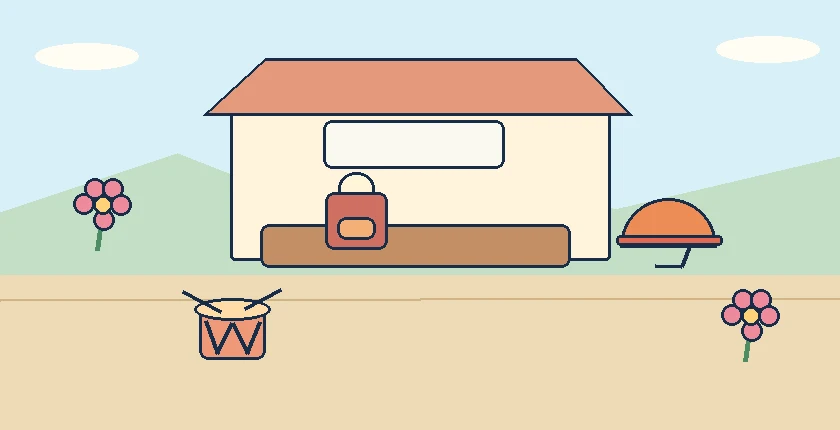
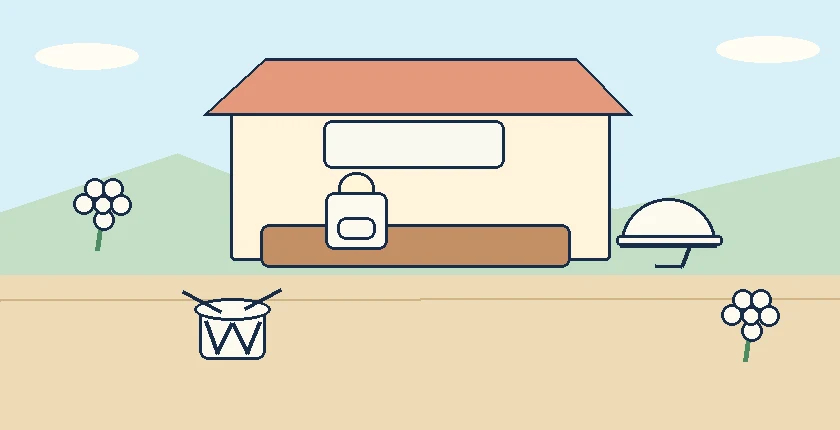
Polish Movers picture interaction and document Cambridge formats

diff --git a/components/games/StartersRound.tsx b/components/games/StartersRound.tsx
@@ -21,6 +21,7 @@ export default function StartersRound({ items, index, turn, answers, assets, set
   const [target, setTarget] = useState(value.split(":")[0]);
   const [card, setCard] = useState(paint ? value.split(":")[1] ?? "" : "");
   const [word, setWord] = useState("");
+  const [zoom, setZoom] = useState<string>();
   const inputId = useId();
   const palette = ["blue", "red", "green", "yellow", "orange", "pink", "purple", "brown"] as const;
   const section = items.flatMap((row, i) => row.practice?.starters?.part === part && row.practice.starters.paper === paper ? [i] : []);
@@ -48,10 +49,15 @@ export default function StartersRound({ items, index, turn, answers, assets, set
     </details>}
     {speaking && <p className="starter-guide" lang="vi">Làm phần này cùng giáo viên. Em có thể trả lời trực tiếp bằng lời.</p>}
     {visuals && <div className="mover-scenes">
-      {visuals.map((src, i) => <figure key={src}>
-        <LessonMedia media={{ image: src }} assets={assets} label={`Fair scene ${i + 1}`}/>
-        <figcaption>{visuals.length === 2 ? `Picture ${"AB"[i]}` : `Picture ${i + 1}`}</figcaption>
-      </figure>)}
+      {visuals.map((src, i) => {
+        const caption = visuals.length === 2 ? `Picture ${"AB"[i]}` : `Picture ${i + 1}`;
+        return <figure key={src} data-enlarged={zoom === src || undefined}>
+          <button type="button" aria-label={`Enlarge ${caption}`} aria-pressed={zoom === src} onClick={() => setZoom(zoom === src ? undefined : src)}>
+            <LessonMedia media={{ image: src }} assets={assets} label={`Fair scene ${i + 1}`}/>
+          </button>
+          <figcaption>{caption}</figcaption>
+        </figure>;
+      })}
     </div>}
     {groups?.map((group, i) => <fieldset key={i} className="mover-odd">
       <legend>Set {i + 1}</legend>
@@ -79,10 +85,14 @@ export default function StartersRound({ items, index, turn, answers, assets, set
       {targets.map(point => {
         const paintValue = (value.startsWith(point.id + ":") ? value : previous.find(answer => answer.startsWith(point.id + ":")))?.split(":")[1];
         const taken = match ? previous.includes(point.id) : paint && previous.some(answer => answer.startsWith(point.id + ":"));
-        return <button className={movers && colouring ? "starter-pin mover-colour-pin" : "starter-pin"} type="button" key={point.id}
+        const fill = paintValue ? colourPalette[paintValue] : undefined;
+        const mask = point.mask && assets[point.mask];
+        return <div key={point.id}>
+          {mask && fill && <span className="mover-colour-fill" aria-hidden="true" style={{ backgroundColor: fill, maskImage: `url(${mask})` }}/>}
+          <button className={mask ? "starter-pin mover-colour-pin" : "starter-pin"} type="button"
           aria-label={`${colouring ? (movers ? "Object" : "Ball") : "Person"} ${point.id}${paintValue ? " " + paintValue : ""}`}
           aria-pressed={target === point.id} style={{ left: point.x + "%", top: point.y + "%",
-            backgroundColor: paintValue ? colourPalette[paintValue as keyof typeof colourPalette] : undefined }}
+            backgroundColor: mask ? undefined : fill }}
           disabled={taken || sign} onClick={() => {
             setTarget(point.id);
             if (match) pick(point.id);
@@ -91,7 +101,8 @@ export default function StartersRound({ items, index, turn, answers, assets, set
               setAnswers(old => ({ ...old, [index]: [...(old[index] ?? []).filter(entry => entry.split(":")[1] !== card), point.id + ":" + card] }));
               setCard("");
             }
-          }}>{point.id}{speaking && answers[index]?.some(entry => entry.startsWith(point.id + ":")) && <span aria-hidden="true"> ✓</span>}</button>;
+          }}>{point.id}{speaking && answers[index]?.some(entry => entry.startsWith(point.id + ":")) && <span aria-hidden="true"> ✓</span>}</button>
+        </div>;
       })}
     </div> : <div className={!movers && paper === "reading" && [1, 3].includes(part) ? "starter-picture starter-object" : "starter-picture"}><LessonMedia media={{ image: scene }} assets={assets}
       label={paper === "reading" && part === 5 ? "Story picture" : "Question picture"}/></div>)}

diff --git a/tests/browser/starters-hosted.spec.ts b/tests/browser/starters-hosted.spec.ts
@@ -12,8 +12,11 @@ for (const paper of ["listening", "reading", "speaking"]) {
     await page.getByLabel("Mật khẩu").fill(process.env.E2E_TEACHER_PASSWORD!);
     await page.getByRole("button", { name: "Đăng nhập", exact: true }).click();
     await expect(page.getByRole("heading", { name: "Hoạt động của tôi" })).toBeVisible();
-    await page.goto(`/samples/cambridge-starters/${paper}`);
+    await page.goto(`/samples/cambridge-starters/${paper}`, { waitUntil: "networkidle" });
+    await expect(page.getByRole("button", { name: "Bắt đầu", exact: true })).toBeEnabled();
     await page.getByRole("button", { name: "Lưu vào thư viện giáo viên" }).click();
+    await expect(page.getByText("Đã lưu thay đổi.", { exact: true })).toBeVisible({ timeout: 20000 });
+    await page.waitForLoadState("networkidle");
     if (paper === "speaking") {
       await page.getByText("Hướng dẫn Speaking dành cho giáo viên").click();
       await expect(page.getByText(/Put the apple beside the boy/)).toBeVisible();
@@ -21,7 +24,7 @@ for (const paper of ["listening", "reading", "speaking"]) {
     await page.getByLabel(/Cho học sinh xem câu sai/).check();
     await page.getByRole("button", { name: "Tạo link giao bài" }).click();
     const field = page.getByLabel("Link chia sẻ");
-    await expect(field).toBeVisible();
+    await expect(field).toBeVisible({ timeout: 20000 });
     const url = await field.inputValue();
     const assignmentUrl = page.url();
     const student = await browser.newPage();

diff --git a/app/starters.css b/app/starters.css
@@ -88,10 +88,14 @@
 .mover-matches img { width: 100%; display: block; border-radius: .45rem; }
 .mover-sign { position: absolute; left: 38.5%; top: 25.5%; width: 22%; height: 15%; text-align: center; overflow-wrap: anywhere; }
 .mover-sign input { width: 100%; height: 100%; min-height: 2rem; padding: .1rem .2rem; text-align: center; font-size: inherit; }
-.starter-pin.mover-colour-pin { mix-blend-mode: multiply; color: #192d49; }
+.starter-pin.mover-colour-pin { transform: translate(-50%, 8%); min-width: 32px; min-height: 32px; }
+.mover-colour-fill { position: absolute; inset: 0; mask-size: 100% 100%; mask-repeat: no-repeat; pointer-events: none; }
 .starter-choice-letter { display: inline-block; margin-right: .45rem; color: var(--starter-coral); font-weight: 750; }
 .mover-scenes { display: grid; grid-template-columns: repeat(2, minmax(0, 1fr)); gap: .65rem; }
 .mover-scenes figure { display: grid; margin: 0; padding: .35rem; background: var(--starter-aqua); border-radius: .7rem; text-align: center; }
+.mover-scenes figure[data-enlarged] { grid-column: 1 / -1; }
+.mover-scenes button { padding: 0; border: 0; border-radius: .45rem; background: transparent; cursor: zoom-in; }
+.mover-scenes button[aria-pressed="true"] { cursor: zoom-out; }
 .mover-scenes img { display: block; width: 100%; border-radius: .45rem; }
 .mover-scenes figcaption { padding: .3rem; font-weight: 720; }
 .mover-odd { margin: 0; min-width: 0; border: 1px solid #bfdad6; border-radius: .65rem; padding: .5rem; }

diff --git a/tests/browser/movers-hosted.spec.ts b/tests/browser/movers-hosted.spec.ts
@@ -18,9 +18,11 @@ for (const paper of ["listening", "reading", "speaking"]) {
     test.skip(info.project.name !== "desktop" || !process.env.E2E_TEACHER_EMAIL || !process.env.E2E_OTHER_EMAIL, "QuizStudy QA teachers required");
     test.setTimeout(150000);
     await signIn(page);
-    await page.goto(`/samples/cambridge-movers/${paper}`);
+    await page.goto(`/samples/cambridge-movers/${paper}`, { waitUntil: "networkidle" });
+    await expect(button(page, "Bắt đầu")).toBeEnabled();
     await button(page, "Lưu vào thư viện giáo viên").click();
-    await expect(button(page, "Tạo link giao bài")).toBeVisible();
+    await expect(button(page, "Tạo link giao bài")).toBeVisible({ timeout: 20000 });
+    await page.waitForLoadState("networkidle");
     const source = page.url();
     if (paper === "speaking") {
       await page.getByText("Hướng dẫn Speaking dành cho giáo viên").click();
@@ -28,7 +30,7 @@ for (const paper of ["listening", "reading", "speaking"]) {
     }
     await page.getByLabel(/Cho học sinh xem câu sai/).check();
     await button(page, "Tạo link giao bài").click();
-    await expect(page.getByLabel("Link chia sẻ")).toBeVisible();
+    await expect(page.getByLabel("Link chia sẻ")).toBeVisible({ timeout: 20000 });
     const url = await page.getByLabel("Link chia sẻ").inputValue();
     const assignment = page.url();
     const student = await browser.newPage();

diff --git a/tests/browser/movers.spec.ts b/tests/browser/movers.spec.ts
@@ -73,7 +73,14 @@ for (const part of [1, 2, 3, 4]) {
   test(`Movers Speaking Part ${part}`, async ({ page }) => {
     await start(page, "speaking?part=" + part);
     await expect(page.getByText("Gợi ý luyện tập")).toBeVisible();
-    if (part === 1 || part === 2) await expect(page.locator(".mover-scenes figure")).toHaveCount(part === 1 ? 2 : 4);
+    if (part === 1 || part === 2) {
+      await expect(page.locator(".mover-scenes figure")).toHaveCount(part === 1 ? 2 : 4);
+      const zoom = button(page, part === 1 ? "Enlarge Picture A" : "Enlarge Picture 1");
+      await zoom.click();
+      await expect(page.locator("figure[data-enlarged]")).toHaveCount(1);
+      await zoom.click();
+      await expect(page.locator("figure[data-enlarged]")).toHaveCount(0);
+    }
     if (part === 3) {
       for (let group = 1; group <= 4; group++) {
         const cards = page.getByRole("group", { name: "Set " + group }).getByRole("button");
@@ -152,6 +159,7 @@ for (const part of [1, 2, 3, 4, 5]) {
     if (part === 5) {
       await button(page, "Object 1").click();
       await button(page, "purple").click();
+      await expect(page.locator(".mover-colour-fill")).toHaveCount(1);
       for (let i = 0; i < 3; i++) await button(page, "Tiếp theo").click();
       await expect(button(page, "Object 1 purple")).toBeDisabled();
       await page.getByLabel("Word on the sign").fill("open");

diff --git a/lib/games/starters.ts b/lib/games/starters.ts
@@ -23,7 +23,8 @@ export const starterConfig = z.object({
   level: z.literal("movers").optional(),
   scene: starterImage.optional(), passage: z.string().max(1400).optional(), letters: z.string().max(16).optional(),
   cards: z.array(cardSchema).max(8).optional(),
-  targets: z.array(z.object({ id: z.string().max(12), x: z.number().min(0).max(100), y: z.number().min(0).max(100) })).max(8).optional(),
+  targets: z.array(z.object({ id: z.string().max(12), x: z.number().min(0).max(100), y: z.number().min(0).max(100),
+    mask: starterImage.optional() })).max(8).optional(),
   example: z.string().trim().max(350).optional(), guide: z.string().trim().max(1200).optional(),
   teacher: z.string().trim().max(1200).optional(),
   lead: cardSchema.optional(), fields: z.array(z.string().max(60)).length(5).optional(), choices: z.array(z.string().trim().min(1).max(120)).length(3).optional(),

diff --git a/lib/movers-paper.ts b/lib/movers-paper.ts
@@ -11,7 +11,9 @@ const people = points([[12, 75], [26, 81], [43, 73], [60, 81], [76, 75], [89, 82
 const booking = ["Day", "Person in charge", "Number of children", "Room", "What to bring"];
 const objects = cards(["scarf", "map", "camera", "bottle", "torch", "basket", "drum", "helmet"], ["A", "B", "C", "D", "E", "F", "G", "H"]);
 const stall = image("colour-stall");
-const stallTargets = points([[12, 50], [28, 76], [42, 50], [80, 56], [89, 76]]);
+const stallTargets = points([[12, 50], [28, 76], [42, 50], [80, 56], [89, 76]]).map((target, i) => ({
+  ...target, mask: image("colour-" + ["flower-left", "drum", "bag", "helmet", "flower-right"][i]),
+}));
 
 const listening: Question[][] = [
   [["Nora", "2"], ["Jake", "6"], ["Kim", "1"], ["Maya", "5"], ["Louis", "3"]].map(([prompt, answer]) => ({

diff --git a/lib/media.ts b/lib/media.ts
@@ -28,6 +28,7 @@ export function builtInMediaUrls(items: Item[]) {
   return Object.fromEntries(items.flatMap(item => [item.english?.uk, item.english?.us, item.media?.image, item.media?.audio, item.practice?.stimulusImage,
     item.practice?.starters?.scene, item.practice?.starters?.lead?.image, ...(item.practice?.starters?.visuals ?? []),
     ...(item.practice?.starters?.groups?.flat() ?? []), ...(item.practice?.starters?.cards?.map(card => card.image) ?? []),
+    ...(item.practice?.starters?.targets?.map(target => target.mask) ?? []),
     ...(item.optionMedia?.flatMap(media => [media.image, media.audio]) ?? [])]
     .filter((path): path is string => typeof path === "string" && builtIn(path)).map(path => [path, path])));
 }

diff --git a/docs/CAMBRIDGE_SPEC.md b/docs/CAMBRIDGE_SPEC.md
@@ -1,0 +1,41 @@
+# Cambridge Young Learners · Paper-based
+
+Học liệu trên Sân Chơi do dự án biên soạn. Giáo viên mở **Học liệu mẫu** và chọn Starters hoặc Movers để luyện từng Part hay thi thử theo kỹ năng. Bản lưu vào thư viện là hoạt động riêng tư. Giáo viên có thể sửa câu hỏi, đáp án hoặc rubric phù hợp, tạo link giao bài và xuất kết quả. Bài giao giữ snapshot tại thời điểm tạo.
+
+## Phạm vi đã triển khai
+
+| Cấp độ | Listening | Reading & Writing | Speaking |
+|---|---|---|---|
+| Pre A1 Starters | 4 Part · 20 câu · 20 phút | 5 Part · 25 câu · 20 phút | 4 Part · thực hiện với giáo viên · tối đa 5 phút trong app |
+| A1 Movers | 5 Part · 25 câu · 25 phút | 6 Part · 35 câu · 30 phút | 4 Part · thực hiện với giáo viên · tối đa 7 phút trong app |
+
+[Định dạng Paper-based Pre A1 Starters](https://www.cambridgeenglish.org/exams-and-tests/qualifications/young-learners/paper/starters/format/) · [Định dạng Paper-based A1 Movers](https://www.cambridgeenglish.org/exams-and-tests/qualifications/young-learners/paper/movers/format/) · [Handbook for teachers](https://www.cambridgeenglish.org/vn/Images/357180-starters-movers-and-flyers-handbook-for-teachers-2024.pdf) · [Ánh xạ từng Part Starters](STARTERS.md).
+
+## Ánh xạ 15 Part A1 Movers
+
+| Paper / Part | Dạng bài | Học liệu và thao tác trên Sân Chơi |
+|---|---|---|
+| Listening 1 · 5 | Nối tên với người trong tranh | Hội chợ trường học. Nghe đặc điểm của người và chọn ghim dưới hình. |
+| Listening 2 · 5 | Điền từ hoặc số vào phiếu | Điền ngày, tên, số người, số phòng và vật cần mang vào phiếu câu lạc bộ. |
+| Listening 3 · 5 | Ghép hai bộ hình | Ghép năm người có tên với hình đồ vật A–H dựa vào hội thoại. |
+| Listening 4 · 5 | Chọn hình A, B hoặc C | Năm đoạn hội thoại với ba hình lựa chọn cho mỗi câu. |
+| Listening 5 · 5 | Tô màu và viết một từ | Tô bốn vật trong tranh gian hàng và viết một từ lên bảng trống. |
+| Reading & Writing 1 · 5 | Ghép định nghĩa rồi viết từ | Tám hình có từ và năm định nghĩa ngắn. Chọn để tham chiếu rồi tự viết từ. |
+| Reading & Writing 2 · 6 | Hoàn thành hội thoại | Chọn một trong ba câu đáp cho mỗi lượt nói khi chuẩn bị gian hàng. |
+| Reading & Writing 3 · 6 | Điền từ và chọn tiêu đề | Năm chỗ trống với khung từ minh họa, sau đó chọn tiêu đề phù hợp nhất cho truyện. |
+| Reading & Writing 4 · 5 | Điền từ đúng ngữ pháp | Đoạn thông tin về cầu vồng với ba phương án riêng cho mỗi chỗ trống. |
+| Reading & Writing 5 · 7 | Hoàn thành câu theo truyện | Truyện ba đoạn có tranh. Điền từ một đến ba từ vào mỗi câu. |
+| Reading & Writing 6 · 6 | Viết dựa trên tranh | Hoàn thành hai câu, trả lời hai câu hỏi và viết hai câu đầy đủ để giáo viên chấm. |
+| Speaking 1 | Mô tả bốn điểm khác nhau | So sánh hai tranh gian hàng, nói trực tiếp với giáo viên. |
+| Speaking 2 | Kể tiếp truyện bốn tranh | Giáo viên kể khung đầu của truyện Leo. Học sinh kể tiếp ba khung sau. |
+| Speaking 3 | Tìm hình khác nhóm và giải thích | Bốn nhóm bốn hình. Học sinh có thể đánh dấu lựa chọn rồi giải thích trực tiếp. |
+| Speaking 4 | Trả lời câu hỏi cá nhân | Giáo viên hỏi về trường học, cuối tuần, bạn bè và sở thích. |
+
+## Chấm điểm và giới hạn mô phỏng
+
+- Luyện từng Part không có đồng hồ. Thi thử dùng đồng hồ trên trình duyệt và giấu phản hồi đúng/sai trong lúc làm. Học sinh có thể quay lại câu trước và tiếp tục bài giao đang làm trong cùng tab.
+- Học liệu nghe là tranh và hội thoại gốc về hội chợ, giọng Anh–Anh tổng hợp bằng eSpeak NG. Thi thử cho khởi phát mỗi clip tối đa hai lần. Học sinh chủ động khởi phát và có thể tạm dừng trong một lượt. Ví dụ thuộc phần hướng dẫn trên màn hình.
+- Điểm nội bộ Listening là số câu đúng. Reading & Writing có 33 câu chấm tự động và hai câu viết mở do giáo viên chấm, mỗi câu mở tối đa một điểm nội bộ. Khi xuất CSV hoặc công bố nhận xét, phần tự động và thủ công có thể được đối chiếu riêng. Giáo viên kiểm soát việc hiển thị điểm tự động cho học sinh.
+- Speaking dùng rubric nội bộ và nhận xét của giáo viên. Giáo viên có thể chấm trực tiếp tại lớp hoặc chấm lượt được gửi qua link. Speaking Cambridge không dùng microphone và không nhập câu trả lời cá nhân lên web. Điểm nội bộ không quy đổi sang Cambridge shields.
+- Bộ công khai dùng cùng câu hỏi với bộ mẫu đưa vào thư viện. Đồng hồ và giới hạn lượt nghe là điều khiển trình duyệt. Hạn nộp và chấm tự động của bài giao do máy chủ xử lý.
+- Có thể thao tác bằng bàn phím và cảm ứng. Các phần cần nghe hoặc quan sát tranh chưa có bộ học liệu thay thế đầy đủ.
